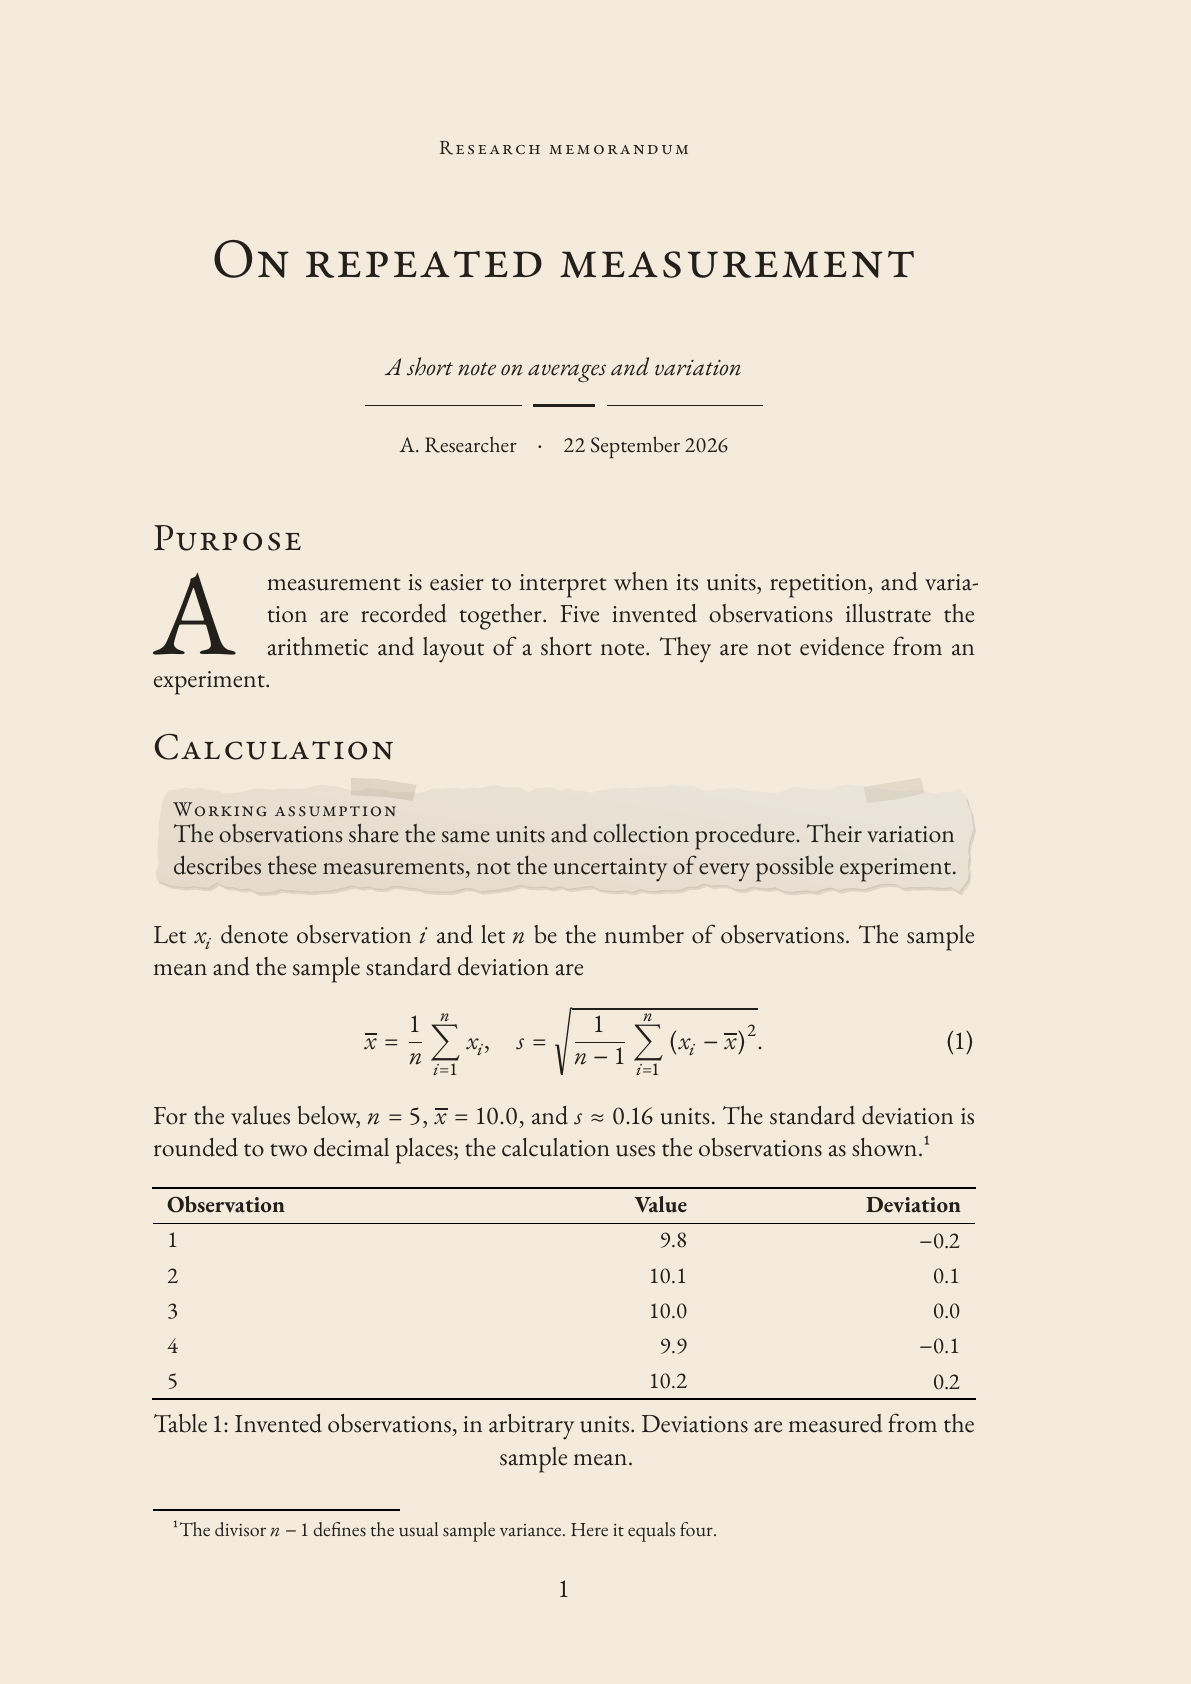
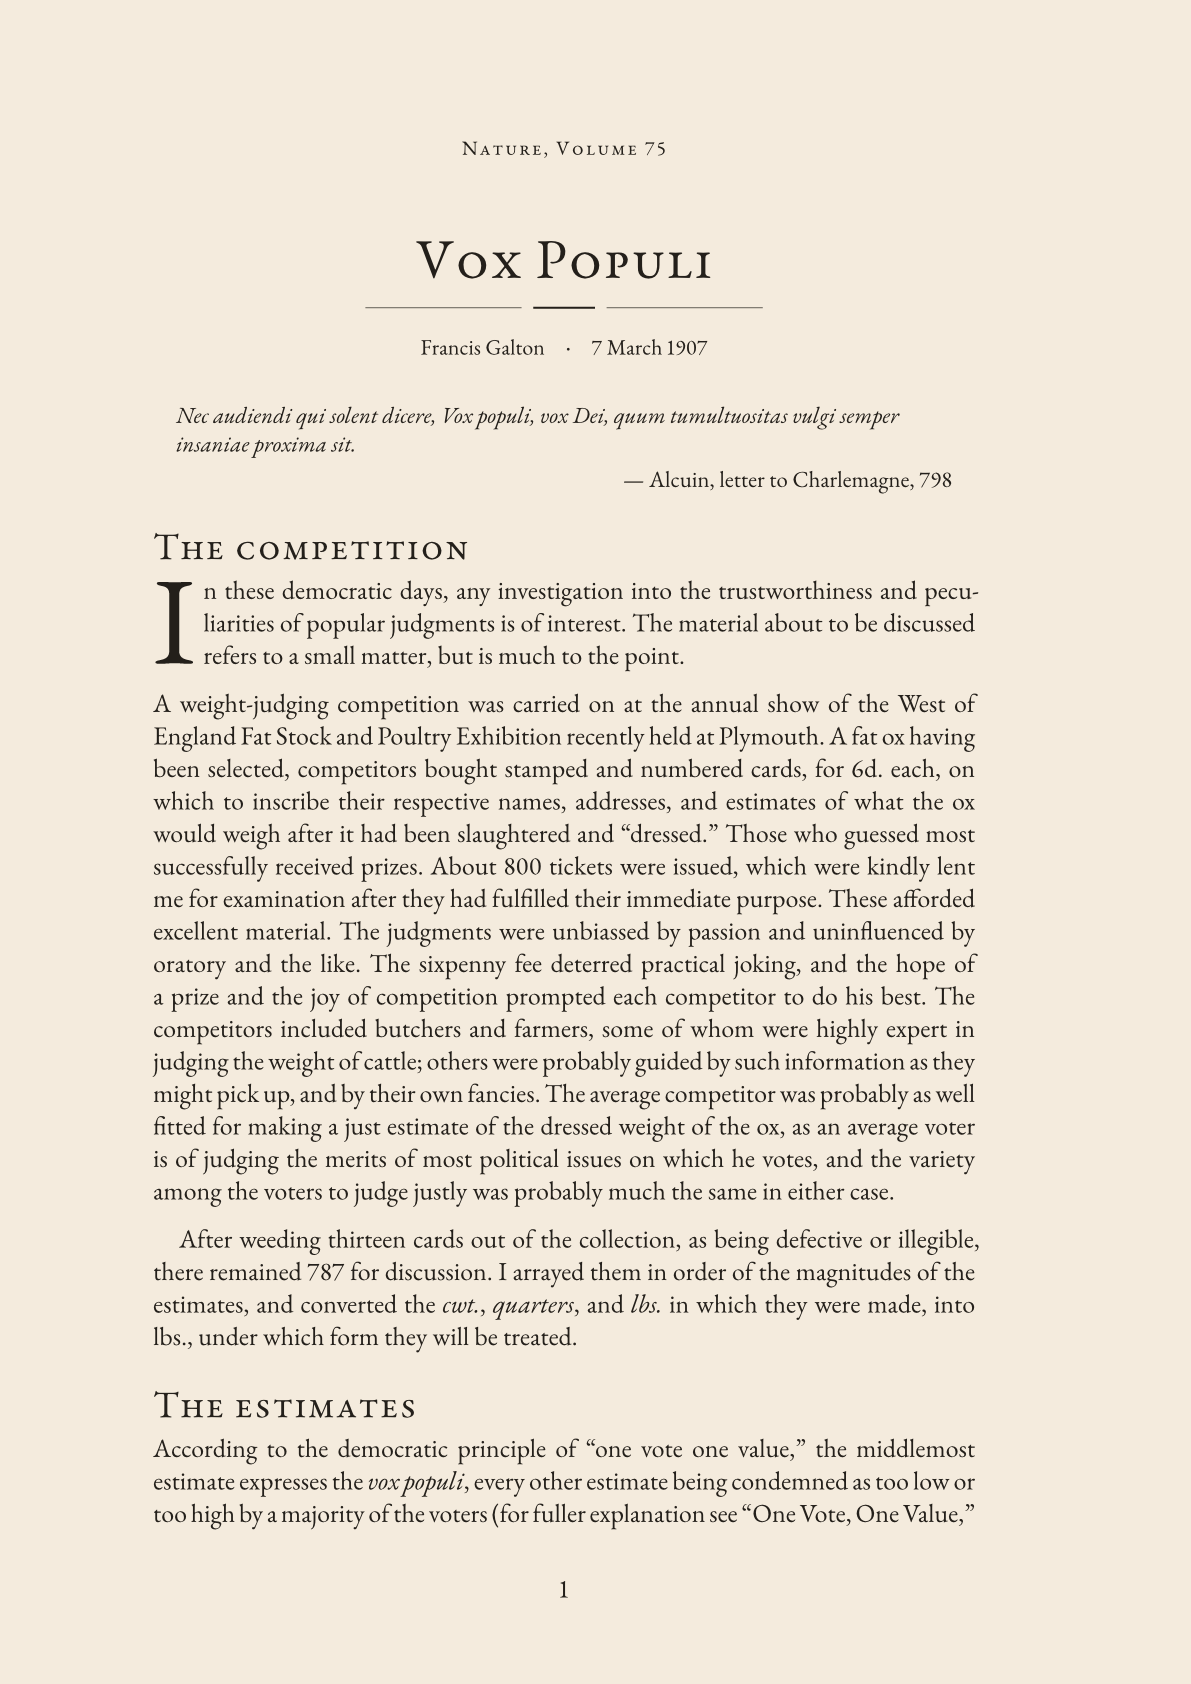
Use Galton's Vox Populi as the starter and add an optional header
The header line above the title is now a parameter that defaults to none.
Block quotations get a smaller setting, used for the starter's epigraph.

diff --git a/README.md b/README.md
@@ -17,97 +17,186 @@ bundled. The starter downloads `droplet:0.3.1` on first compilation.
 
 ## Usage
 
-[template/main.typ](template/main.typ) is the only starter. Edit its metadata
-and body. The complete example below is the same file; both rendered pages follow.
+[template/main.typ](template/main.typ) is the only starter: Francis Galton's
+public-domain note "Vox Populi" (_Nature_, 1907). Edit its metadata and body.
+The complete example below is the same file; all three rendered pages follow.
 
 ```typ
 // SPDX-License-Identifier: MIT-0
 // Copyright (c) 2026 Chen Gao
+// Text: F. Galton, "Vox Populi," Nature 75 (7 March 1907): 450–451; public
+// domain. The epigraph, headings, and margin note are added; the diagram is
+// omitted.
 #import "@preview/sepia-memo:0.3.0": memo, memo-note, memo-inset
 #import "@preview/droplet:0.3.1": dropcap
 
 #show: memo.with(
-  title: [On repeated measurement],
-  subtitle: [A short note on averages and variation],
-  author: "A. Researcher",
-  date: [22 September 2026],
+  header: [Nature, Volume 75],
+  title: [Vox Populi],
+  author: "Francis Galton",
+  date: [7 March 1907],
 )
 
 // ponytail: One starter; optional fonts use the same memo settings.
 #set math.equation(numbering: "(1)")
 
-= Purpose
+#quote(block: true, attribution: [Alcuin, letter to Charlemagne, 798])[
+  _Nec audiendi qui solent dicere, Vox populi, vox Dei, quum tumultuositas
+  vulgi semper insaniae proxima sit._
+]
+
+= The competition
 
 #dropcap(height: 3, gap: 4pt)[
-  A measurement is easier to interpret when its units, repetition, and variation
-  are recorded together. Five invented observations illustrate the arithmetic and
-  layout of a short note. They are not evidence from an experiment.
+  In these democratic days, any investigation into the trustworthiness and
+  peculiarities of popular judgments is of interest. The material about to be
+  discussed refers to a small matter, but is much to the point.
 ]
 
-= Calculation
+A weight-judging competition was carried on at the annual show of the West of
+England Fat Stock and Poultry Exhibition recently held at Plymouth. A fat ox
+having been selected, competitors bought stamped and numbered cards, for 6d.
+each, on which to inscribe their respective names, addresses, and estimates of
+what the ox would weigh after it had been slaughtered and "dressed." Those who
+guessed most successfully received prizes. About 800 tickets were issued, which
+were kindly lent me for examination after they had fulfilled their immediate
+purpose. These afforded excellent material. The judgments were unbiassed by
+passion and uninfluenced by oratory and the like. The sixpenny fee deterred
+practical joking, and the hope of a prize and the joy of competition prompted
+each competitor to do his best. The competitors included butchers and farmers,
+some of whom were highly expert in judging the weight of cattle; others were
+probably guided by such information as they might pick up, and by their own
+fancies. The average competitor was probably as well fitted for making a just
+estimate of the dressed weight of the ox, as an average voter is of judging the
+merits of most political issues on which he votes, and the variety among the
+voters to judge justly was probably much the same in either case.
 
-#memo-inset(title: [Working assumption])[
-  The observations share the same units and collection procedure. Their variation
-  describes these measurements, not the uncertainty of every possible experiment.
-]
+After weeding thirteen cards out of the collection, as being defective or
+illegible, there remained 787 for discussion. I arrayed them in order of the
+magnitudes of the estimates, and converted the _cwt._, _quarters_, and _lbs._
+in which they were made, into lbs., under which form they will be treated.
 
-Let $x_i$ denote observation $i$ and let $n$ be the number of observations. The
-sample mean and the sample standard deviation are
+= The estimates
 
-$
-  overline(x) = 1/n sum_(i=1)^n x_i,
-  quad s = sqrt(1/(n - 1) sum_(i=1)^n (x_i - overline(x))^2).
-$ <eq-summary>
-
-For the values below, $n = 5$, $overline(x) = 10.0$, and $s approx 0.16$ units.
-The standard deviation is rounded to two decimal places; the calculation uses
-the observations as shown.#footnote[The divisor $n - 1$ defines the usual sample
-  variance. Here it equals four.]
-
-#block(breakable: false)[
 #figure(
+  placement: auto,
   table(
-    columns: (1fr, 1fr, 1fr),
-    align: (left, right, right),
+    columns: (auto, 1fr, 1fr, 1fr, 1fr),
+    align: (right, right, right, right, right),
     table.hline(stroke: 0.6pt),
-    table.header([*Observation*], [*Value*], [*Deviation*]),
+    table.header(
+      table.cell(rowspan: 2, align: bottom)[*Degree*],
+      table.cell(rowspan: 2, align: bottom)[*Estimate*],
+      table.cell(colspan: 2, align: center)[*Centiles*],
+      table.cell(rowspan: 2, align: bottom)[*Excess*],
+      [*Observed*], [*Normal*],
+    ),
     table.hline(stroke: 0.3pt),
-    [1], [9.8], [$-0.2$],
-    [2], [10.1], [$0.1$],
-    [3], [10.0], [$0.0$],
-    [4], [9.9], [$-0.1$],
-    [5], [10.2], [$0.2$],
+    [5], [1074], [−133], [−90], [+43],
+    [10], [1109], [−98], [−70], [+28],
+    [15], [1126], [−81], [−57], [+24],
+    [20], [1148], [−59], [−46], [+13],
+    [$q_1$ 25], [1162], [−45], [−37], [+8],
+    [30], [1174], [−33], [−29], [+4],
+    [35], [1181], [−26], [−21], [+5],
+    [40], [1188], [−19], [−14], [+5],
+    [45], [1197], [−10], [−7], [+3],
+    [$m$ 50], [1207], [0], [0], [0],
+    [55], [1214], [+7], [+7], [0],
+    [60], [1219], [+12], [+14], [−2],
+    [65], [1225], [+18], [+21], [−3],
+    [70], [1230], [+23], [+29], [−6],
+    [$q_3$ 75], [1236], [+29], [+37], [−8],
+    [80], [1243], [+36], [+46], [−10],
+    [85], [1254], [+47], [+57], [−10],
+    [90], [1267], [+52], [+70], [−18],
+    [95], [1293], [+86], [+90], [−4],
     table.hline(stroke: 0.6pt),
   ),
-  caption: [Invented observations, in arbitrary units. Deviations are measured
-    from the sample mean.],
-) <tab-observations>
-]
+  caption: [Distribution of the estimates of the dressed weight of a particular
+    living ox, made by 787 different persons, in lb. Degrees run along the array
+    from 0 to 100; observed deviates are measured from 1207 lb., and the normal
+    curve has p.e. $= 37$. The dressed weight proved to be 1198 lb.],
+) <tab-estimates>
 
-= Interpretation
+According to the democratic principle of "one vote one value," the middlemost
+estimate expresses the _vox populi_, every other estimate being condemned as
+too low or too high by a majority of the voters (for fuller explanation see
+"One Vote, One Value," _Nature_, February 28, p. 414). Now
+the middlemost estimate is 1207 lb., and the weight of the dressed ox proved to
+be 1198 lb.; so the _vox populi_ was in this case 9 lb., or 0·8 per cent. of
+the whole weight too high. The distribution of the estimates about their
+middlemost value was of the usual type, so far that they clustered closely in
+its neighbourhood and became rapidly more sparse as the distance from it
+increased.
+
+But they were not scattered symmetrically. One quarter of them deviated more
+than 45 lb. above the middlemost (3·7 per cent.), and another quarter deviated
+more than 29 lb. below it (2·4 per cent.), therefore the range of the two middle
+quarters, that is, of the middlemost half, lay within those limits. It would be
+an equal chance that the estimate written on any card picked at random out of
+the collection lay within or without those limits. In other words, the
+"probable error" of a single observation may be reckoned as
+
+$
+  "p.e." = 1/2 (45 + 29) = 37 "lb.",
+$ <eq-pe>
+
+or 3·1 per cent.
 
 #memo-note[
-  *Keep units visible.* A precise number can still describe an uncertain
-  measurement.
+  *Probable error.* Half the range of the middlemost half of the estimates.
 ][
-  @tab-observations makes the arithmetic in @eq-summary easy to inspect. The
-  deviations sum to zero, while their squares sum to $0.10$. These checks can
-  catch a transcription error before a rounded result is reported.
+  Taking @eq-pe for the p.e. of the normal curve that is best adapted for
+  comparison with the observed values, the results are obtained which appear
+  in @tab-estimates.
 ]
 
-Repeated measurements describe variation under the conditions of collection.
-They do not, by themselves, establish that the instrument is calibrated or
-that a different setting would produce the same distribution. Those claims
-need their own observations and reasoning.
+= The result
+
+The abnormality of the distribution of the estimates now becomes manifest, and
+is of this kind. The competitors may be imagined to have erred normally in the
+first instance, and then to have magnified all errors that were negative and to
+have minified all those that were positive. The lower half of the "observed"
+curve agrees for a large part of its range with a normal curve having the
+p.e. $= 45$, and the upper half with one having its p.e. $= 29$. I have not
+sufficient knowledge of the mental methods followed by those who judge weights
+to offer a useful opinion as to the cause of this curious anomaly. It is partly
+a psychological question, in answering which the various psychophysical
+investigations of Fechner and others would have to be taken into account. Also
+the anomaly may be partly due to the use of a _small_ variety of different
+methods, or formulæ, so that the estimates are not homogeneous in that respect.
+
+#memo-inset(title: [Conclusion])[
+  It appears then, in this particular instance, that the _vox populi_ is
+  correct to within 1 per cent. of the real value, and that the individual
+  estimates are abnormally distributed in such a way that it is an equal chance
+  whether one of them, selected at random, falls within or without the limits
+  of −3·7 per cent. and +2·4 per cent. of their middlemost value.
+]
+
+This result is, I think, more creditable to the trustworthiness of a democratic
+judgment than might have been expected.
+
+The authorities of the more important cattle shows might do service to
+statistics if they made a practice of preserving the sets of cards of this
+description, that they may obtain on future occasions, and loaned them under
+proper restrictions, as these have been, for statistical discussion. The fact
+of the cards being numbered makes it possible to ascertain whether any given set
+is complete.
 ```
 
-**Page 1: drop capital, torn-paper block, equations, table, and footnote.**
+**Page 1: header, block quotation, and drop capital.**
 
-![The starter rendered with the default Garamond fonts, page 1 of 2](thumbnail.png)
+![The starter rendered with the default Garamond fonts, page 1 of 3](thumbnail.png)
 
-**Page 2: the right-margin note created by `memo-note`.**
+**Page 2: a floating table and a numbered equation.**
 
-![The same starter, page 2 of 2, showing the right-margin note](preview-page-2.png)
+![The same starter, page 2 of 3, showing the table and equation](preview-page-2.png)
+
+**Page 3: the right-margin note created by `memo-note` and a torn-paper `memo-inset` block.**
+
+![The same starter, page 3 of 3, showing the margin note and torn-paper block](preview-page-3.png)
 
 Create and watch a memo with:
 
@@ -122,6 +211,7 @@ Set these in `memo.with(...)`. The body follows the show rule normally.
 
 | Option | Default | Purpose |
 | --- | --- | --- |
+| `header` | `none` | Small-caps line above the title, such as a journal or series name |
 | `title` | `auto` | Title and PDF metadata; defaults to Untitled memo or 未命名札记 |
 | `subtitle` | `none` | Subtitle content |
 | `author` | `""` | Author string and PDF metadata |
@@ -142,6 +232,8 @@ For fonts embedded in the Typst CLI, set `font: "Libertinus Serif"` and
   Use at the top level inside `memo`; it can contain prose, equations, and tables
   and continue across pages. The title is optional. Tape placement varies by block
   and stays stable when recompiling the same document.
+- `quote(block: true, attribution: [...])[...]`: Typst's block quotation, set
+  slightly smaller with the attribution on its own line.
 - `printer-rule()`: import it from sepia-memo for a three-part divider.
   Its `ink` option defaults to `rgb("#231F1A")`.
 - The starter's three-line drop cap comes from [droplet](https://typst.app/universe/package/droplet/).
@@ -166,7 +258,7 @@ Chinese support is available in this repository, pending a Universe release.
 Install [ChillKai 2.0 (寒蝉正楷)](https://github.com/Warren2060/Chillkai/releases/tag/v2.000)
 alongside the Garamond fonts, then set `lang: "zh"` in `memo.with(...)`.
 This selects 12 pt Chinese handwriting, two-character paragraph indentation, upright
-headings, outlined strong text, underlined emphasis, and the header 研究札记.
+headings, outlined strong text, and underlined emphasis.
 Latin text and mathematics retain their Garamond fonts. Typst handles Chinese
 punctuation and mixed-script spacing.
 
